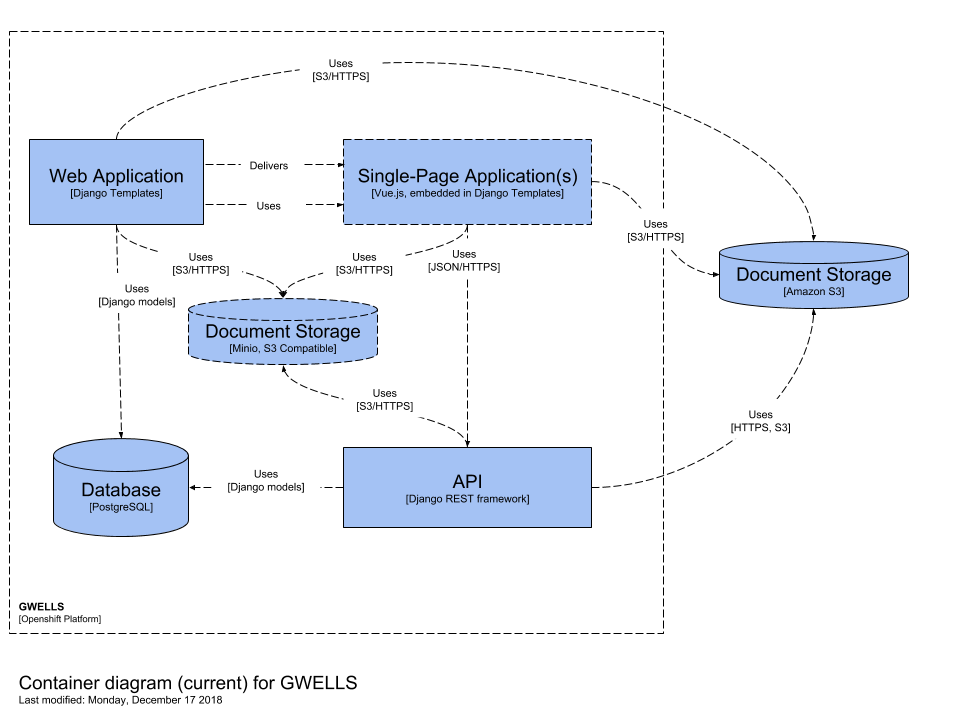
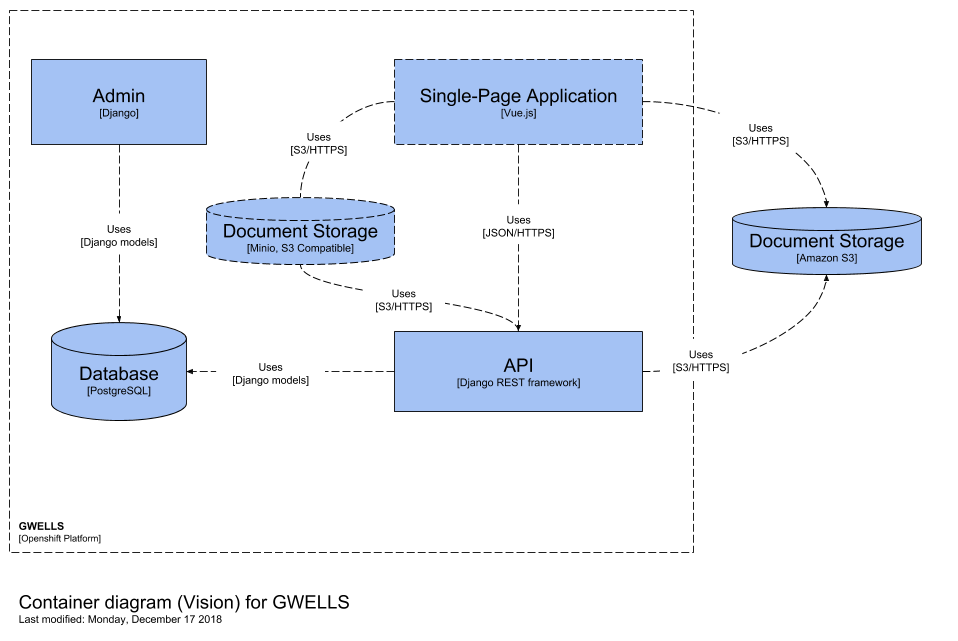
update README

diff --git a/README.md b/README.md
@@ -1,77 +1,53 @@
-[![Quality Gate](https://sonarqube-moe-gwells-tools.pathfinder.gov.bc.ca/api/badges/gate?key=org.sonarqube:bcgov-gwells)](https://sonarqube-moe-gwells-tools.pathfinder.gov.bc.ca/dashboard?id=org.sonarqube%3Abcgov-gwells) [![Quality Gate](https://sonarqube-moe-gwells-tools.pathfinder.gov.bc.ca/api/badges/measure?key=org.sonarqube:bcgov-gwells&metric=coverage&template=FLAT)](https://sonarqube-moe-gwells-tools.pathfinder.gov.bc.ca/dashboard/index/org.sonarqube:bcgov-gwells)
-
-
-
-# Groundwater Wells
+# Groundwater Wells and Aquifers (GWELLS)
 
 ## Introduction
 
-The Ministry of Environment receives and processes groundwater data and information related to the construction, alteration and decommissioning of groundwater wells and stores that information in the WELLS system. Well construction and reporting requirements are regulated under the Water Sustainability Act and Groundwater Protection Regulation. The information collected and stored in WELLS is used by government and other users to help inform decisions related to the management of the groundwater resource in B.C.
+The Ministry of Environment receives and processes groundwater data and information related to the construction, alteration and decommissioning of groundwater wells. Well construction and reporting requirements are regulated under the Water Sustainability Act and Groundwater Protection Regulation. The information collected and stored is used by government and other users to help inform decisions related to the management of the groundwater resource in B.C.
 
-GWELLS is the new groundwater data repository and is intended to replace the current WELLS system. GWELLS aims to improve the user experience when submitting  and searching for well information, to improve the quality of the data being submitted, and to improve the overall functionality of the system to meet user and regulatory requirements.
+GWELLS is the new groundwater data repository and is intended to replace the current WELLS system. GWELLS aims to improve the user experience when submitting and searching for well information, to improve the quality of the data being submitted, and to improve the overall functionality of the system to meet user and regulatory requirements.
 
 The application is being developed as an open source solution.
 
-This is a [Django](http://www.djangoproject.com) project based on the [Openshift Django quickstart](https://github.com/openshift/django-ex) that is intended to be deployed on an [OpenShift](https://github.com/openshift/origin) cluster.
+## Developing GWELLS
 
-It uses the Openshift Source-to-Image (S2I) strategy with Python 3.5 on centos7.  See requirements.txt for Django and dependency versions.
+### Prerequisites
 
-## Development and Deployment
+* [Docker Community Edition (signup  required)](https://store.docker.com/search?type=edition&offering=community)
 
-0.  ##### Prerequisites
+* [git](https://git-scm.com/downloads)
 
-    Install Docker and Git
+### Running the GWELLS application locally
 
-    * [Docker Community Editions (signup  required)](https://store.docker.com/search?type=edition&offering=community)
+Fork our repository into your own GitHub account, and/or clone it onto your local machine.
 
-    * [Git Downloads](https://git-scm.com/downloads)
+Run the GWELLS application with docker-compose:
+```sh
+cd gwells
+docker-compose up
+```
 
-    OS X alternative: Xcode with Git
-    ```
-    xcode-select --install
-    ```
+Visit the following links to browse the API and frontend applications:
 
-    Configure Git (user details, push default and line endings)
-    ```
-    git config --global user.email <GitHub registered email address>
-    git config --global user.name <GitHub registered firstName LastName>
-    git config --global push.default simple
-    git config --global core.autocrlf input
-    ```
+* Django REST API development server: http://localhost:8000/gwells/api/
+* Vue frontend development server: http://localhost:8080/
 
-1.  ##### GWells Repository
+### Running tests:
 
-    Fork our repository into your own GitHub account.
+Django unit tests:
+```sh
+cd app/backend
+python manage.py test -c nose.cfg
+```
 
-    [GWells Repo (fork button in top right)](https://github.com/bcgov/gwells)
+Vue unit tests:
+```sh
+cd app/frontend
+npm run unit
+```
 
-    Clone and cd.
+Postman API tests:
+Import the json test collections in the `api-tests/` folder into [Postman](https://www.getpostman.com/).
 
-    ```
-    git clone https://github.com/<github-user>/gwells.git
-    cd gwells
-    ```
-
-    Add remote (upstream) origin.
-
-    ```
-    git remote add upstream https://github.com/bcgov/gwells.git
-    ```
-
-2.  ##### GWells App
-
-    Create a development deployment for working with Vue, Django or the API.
-    ```
-    cd gwells
-    make [vue|django|api]
-    ```
-
-    Visit the following links depending on development target.
-
-    * Django Frontend: http://localhost:8000/gwells/
-    * Node/API: http://localhost:8080/
-
-    <br>Changes will update dynamically in their respective environments.
 
 ## Contributing
 
@@ -82,19 +58,9 @@ Issues are tracked on the [GWELLS Trello board](https://trello.com/b/2UQZgXHR/we
 
 ## Architecture
 
-### Current
+GWELLS is built with PostgreSQL (with PostGIS), Django REST Framework, and Vue.js, and the production application runs on an OpenShift cluster.  OpenShift templates for services are located in the `openshift/` folder.
 
 ![GWELLS container diagram](pics/container_diagram.png)
-
-### Vision
-
-The current GWELLS architecture relies on Vue.js components being served up using Django templates. This 
-approach results in a complicated interdependence between Vue.js and Django.
-
-The intent is to completely seperate the front end into independently hosted Vue.js components and completely
-drop Django templates.
-
-![GWELLS container diagram (Vision)](pics/container_diagram_vision.png)
 
 ## License
 
